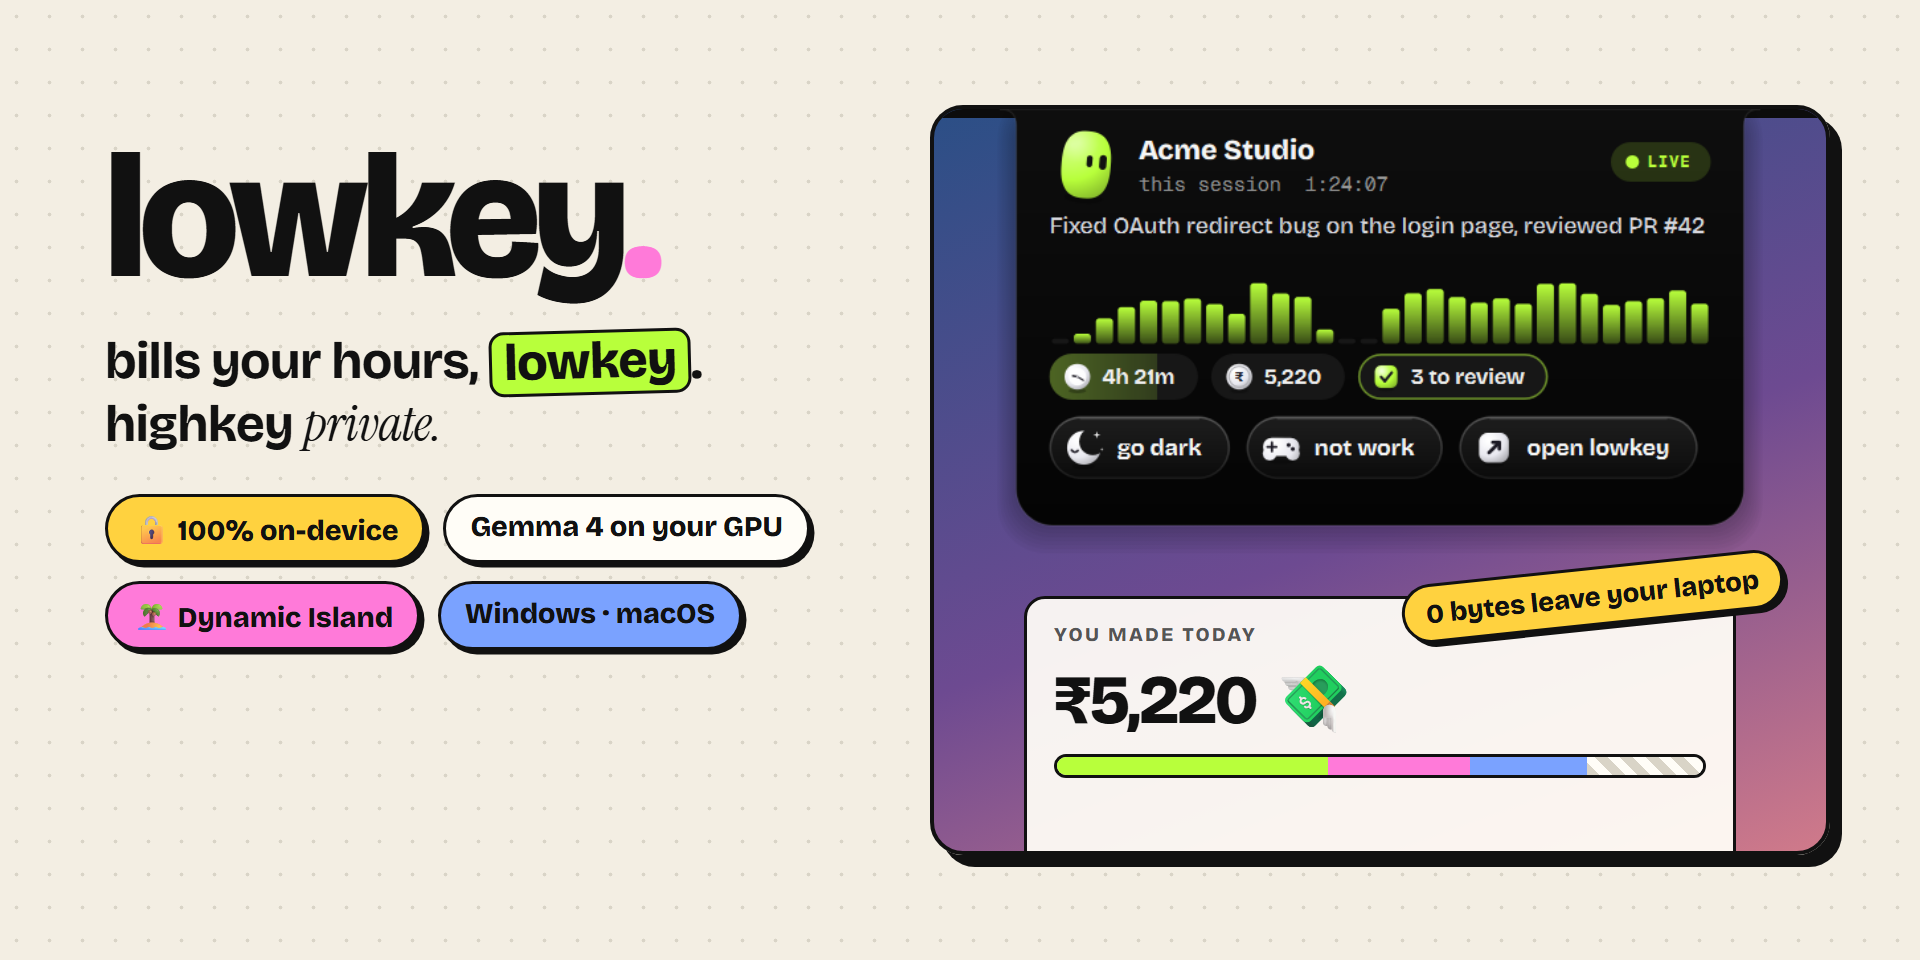
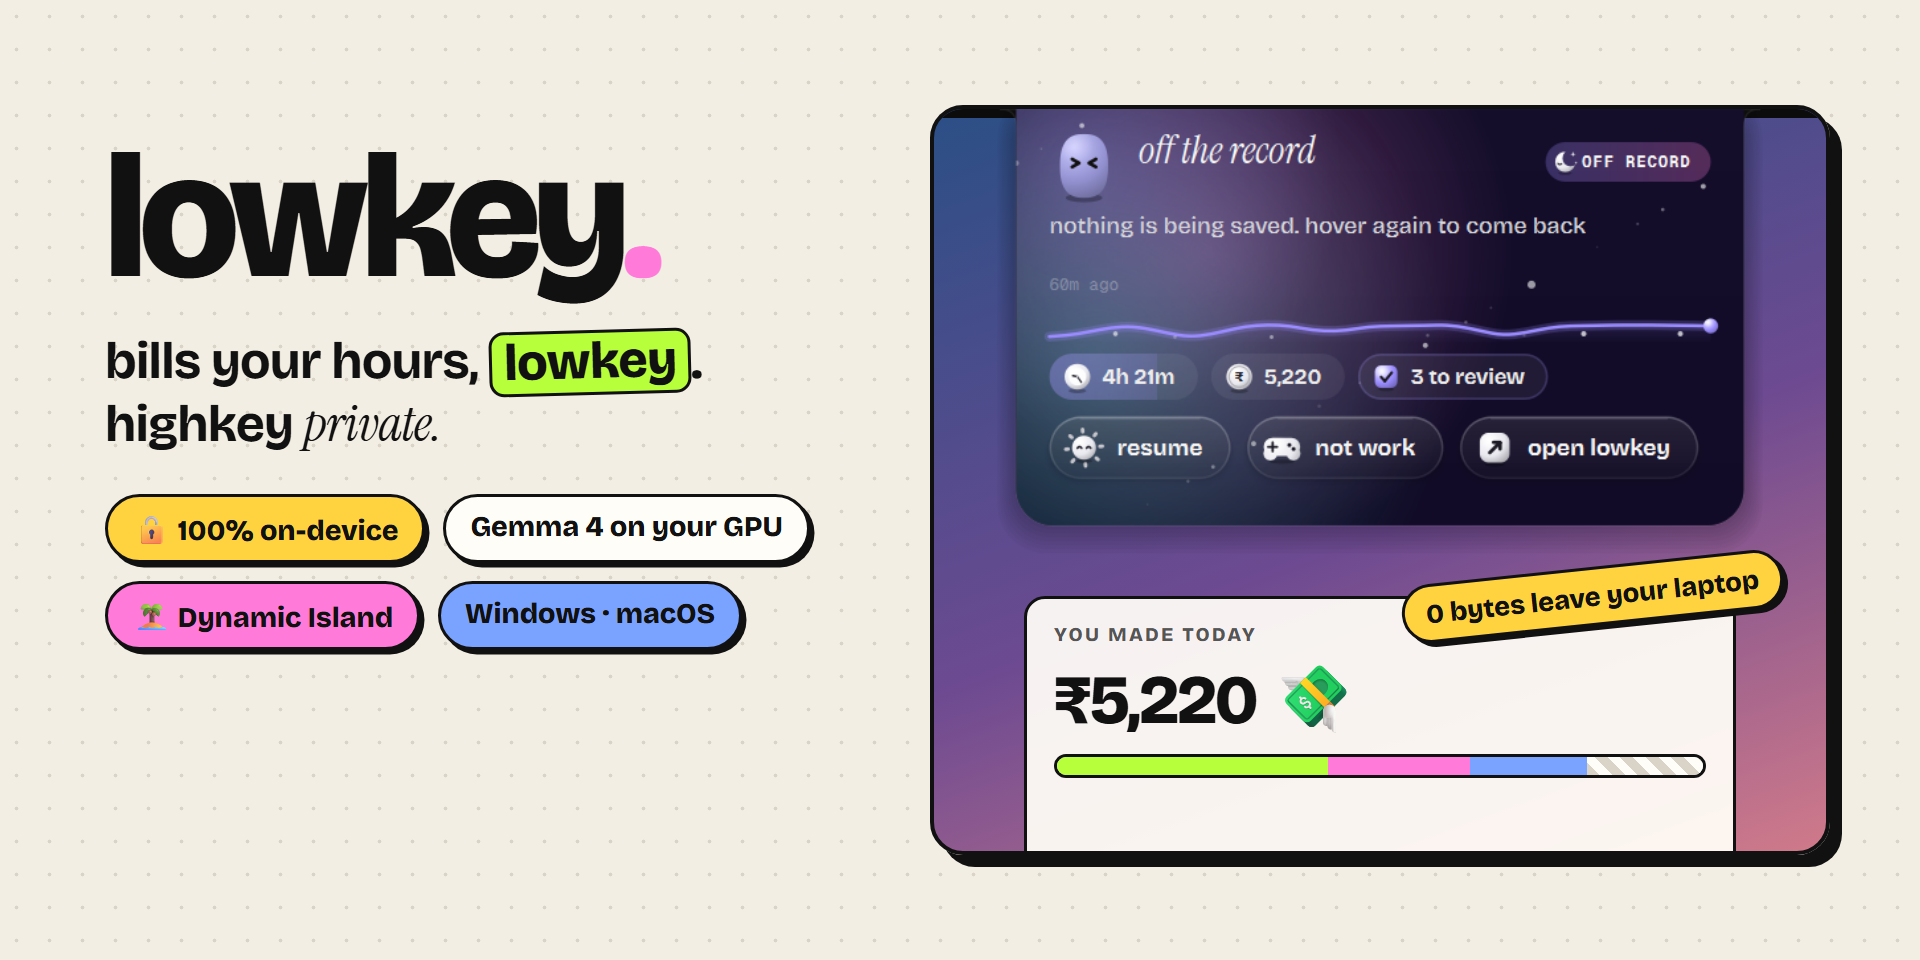
Replace the bar equaliser with a liquid flow wave of the last hour

Changed region(s): [[0.5312, 0.0938, 0.9062, 0.5625]]

diff --git a/lowkey/island.py b/lowkey/island.py
@@ -348,13 +348,15 @@ class Island(QWidget):
         p.setFont(font(14, QFont.Bold))
         name = QFontMetricsF(p.font()).elidedText(title, Qt.ElideRight, 140)
         p.drawText(QRectF(b.left() + 48, b.top(), 150, 42), Qt.AlignVCenter | Qt.AlignLeft, name)
-        if L.get("client") and not L.get("paused") and L.get("idle", 0) < 300:  # tiny "now playing" bars
+        if L.get("client") and not L.get("paused") and L.get("idle", 0) < 300:  # a tiny live squiggle
             ex = b.left() + 48 + QFontMetricsF(p.font()).horizontalAdvance(name) + 12
-            p.setPen(Qt.NoPen)
-            p.setBrush(col)
-            for i in range(4):
-                hh = 4 + 9 * (math.sin(now * (5 + i * 1.7) + i) + 1) / 2
-                p.drawRoundedRect(QRectF(ex + i * 5, cy - hh / 2, 3, hh), 1.5, 1.5)
+            sq = QPainterPath(QPointF(ex, cy))
+            for i in range(1, 21):
+                t = i / 20
+                sq.lineTo(ex + 22 * t, cy + 4.2 * math.sin(t * 2 * math.pi * 1.5 - now * 6) * math.sin(t * math.pi))
+            p.setPen(QPen(col, 2, Qt.SolidLine, Qt.RoundCap, Qt.RoundJoin))
+            p.setBrush(Qt.NoBrush)
+            p.drawPath(sq)
         if L.get("client") and not L.get("paused"):
             p.setFont(font(13.5, QFont.Bold, NUM))
             p.setPen(col)
@@ -465,9 +467,11 @@ class Island(QWidget):
                    Qt.TextWordWrap | Qt.AlignLeft | Qt.AlignTop, text)
         p.setOpacity(base)
 
-        # activity equaliser: last 30 minutes, one bar per minute
+        # flow wave: your last hour as liquid; it ripples while you work and goes still, moonlit, when you're dark
         y = y0 + self.row(p, 2)
-        self.bars(p, QRectF(x, y + 108, b.width() - 40, 34), col, now)
+        wave = QRectF(x, y + 104, b.width() - 40, 38)
+        self.buttons["flow"] = wave
+        self.flow_wave(p, wave, col, now)
 
         # stat chips: icon + value; lift on hover, "today" fills towards your goal, "to review" pulses
         y = y0 + self.row(p, 3)
@@ -597,28 +601,73 @@ class Island(QWidget):
                 p.drawText(lab, Qt.AlignVCenter | Qt.AlignLeft, "not work" if key == "personal" else "open lowkey")
             bx += w + 10
 
-    def bars(self, p, rect, col, now):
+    def flow_stats(self, now):
+        """Active minutes in the last hour, and how long the current streak has run."""
         mins, m0 = self.live.get("minutes", {}), int(now // 60)
-        vals = [min(1.0, mins.get(m0 - 29 + i, 0) / 60) for i in range(30)]
-        bw = rect.width() / 30
+        vals = [min(1.0, mins.get(m0 - 59 + i, 0) / 60) for i in range(60)]
+        streak = 0
+        for v in reversed(vals):
+            if v < 0.4:
+                break
+            streak += 1
+        return vals, sum(v >= 0.4 for v in vals), streak
+
+    def flow_wave(self, p, rect, col, now):
+        vals, active_min, streak = self.flow_stats(now)
+        smooth = [sum(vals[max(0, i - 2):i + 3]) / len(vals[max(0, i - 2):i + 3]) for i in range(60)]
         paused = self.live.get("paused")
-        active = not paused and self.live.get("idle", 0) < 300
+        live = not paused and self.live.get("idle", 0) < 300
+        accent = NIGHT if paused else col
+        top, bottom = rect.top() + 6, rect.bottom() - 4
+        amp = 0.0 if not live else 1.0
+        pts = []
+        for i, v in enumerate(smooth):
+            x = rect.left() + rect.width() * i / 59
+            level = v * (0.25 if paused else 1.0)                       # moonlit water lies low and calm
+            ripple = (1.6 * amp + (0.6 if paused else 0)) * math.sin(now * (2.2 if live else 0.8) + i * 0.38)
+            pts.append(QPointF(x, bottom - (bottom - top) * level + ripple * (0.4 + level)))
+        line = QPainterPath(pts[0])
+        for a, b2 in zip(pts, pts[1:]):                                  # midpoint smoothing: a liquid curve
+            mid = QPointF((a.x() + b2.x()) / 2, (a.y() + b2.y()) / 2)
+            line.quadTo(a, mid)
+        line.lineTo(pts[-1])
+        area = QPainterPath(line)
+        area.lineTo(rect.right(), rect.bottom())
+        area.lineTo(rect.left(), rect.bottom())
+        area.closeSubpath()
+        fill = QLinearGradient(0, top, 0, rect.bottom())
+        fill.setColorAt(0, QColor(accent.red(), accent.green(), accent.blue(), 95))
+        fill.setColorAt(1, QColor(accent.red(), accent.green(), accent.blue(), 0))
         p.setPen(Qt.NoPen)
-        for i, v in enumerate(vals):
-            if paused:  # moonlit: low, still, breathing together
-                hh = max(3.0, rect.height() * v * 0.42 * (0.82 + 0.18 * math.sin(now * 1.1 + i * 0.22)))
-                col = DUSK if i % 7 == 3 else NIGHT
-            else:
-                wiggle = 1 + (0.18 * math.sin(now * 6 + i * 0.9) if active and v > 0 else 0)
-                hh = max(3.0, rect.height() * v * 0.92 * wiggle)
-            g = QLinearGradient(0, rect.bottom() - hh, 0, rect.bottom())
-            top = QColor(col)
-            bottom = QColor(col)
-            bottom.setAlpha(70)
-            g.setColorAt(0, top)
-            g.setColorAt(1, bottom)
-            p.setBrush(g if v > 0 else QBrush(FAINT))
-            p.drawRoundedRect(QRectF(rect.left() + i * bw + 1.5, rect.bottom() - hh, bw - 3, hh), 2, 2)
+        p.setBrush(fill)
+        p.drawPath(area)
+        p.setBrush(Qt.NoBrush)
+        p.setPen(QPen(QColor(accent.red(), accent.green(), accent.blue(), 55), 6, Qt.SolidLine, Qt.RoundCap))
+        p.drawPath(line)                                                  # soft glow under the line
+        p.setPen(QPen(accent, 2, Qt.SolidLine, Qt.RoundCap))
+        p.drawPath(line)
+        if paused:  # starlight glinting on still water
+            p.setPen(Qt.NoPen)
+            for i in range(7):
+                tw = (math.sin(now * 2 + i * 1.9) + 1) / 2
+                gx = rect.left() + rect.width() * ((i * 0.618 + 0.1) % 1)
+                p.setBrush(QColor(255, 255, 255, int(40 + 150 * tw)))
+                p.drawEllipse(QPointF(gx, bottom - 2 + (i % 3)), 0.8 + 0.8 * tw, 0.8 + 0.8 * tw)
+        # the "now" dot: pulses only while you're active
+        nowp = pts[-1]
+        if live:
+            age = (now % 2.0) / 2.0
+            ring = QColor(accent.red(), accent.green(), accent.blue(), int(130 * (1 - age)))
+            p.setPen(QPen(ring, 1.5))
+            p.setBrush(Qt.NoBrush)
+            p.drawEllipse(nowp, 4 + 9 * age, 4 + 9 * age)
+        dot = QPainterPath()
+        dot.addEllipse(nowp, 4.5, 4.5)
+        jelly.jelly(p, dot, accent if live or paused else QColor("#8a8a94"), shadow=False)
+        f = font(9.5, QFont.Medium, NUM)
+        p.setFont(f)
+        p.setPen(QColor(255, 255, 255, 70))
+        p.drawText(QRectF(rect.left(), rect.top() - 4, 80, 12), Qt.AlignLeft | Qt.AlignVCenter, "60m ago")
 
     def hv(self, key):
         """0..1 hover amount for a control, eased by a spring (a touch of overshoot, then it holds)."""
@@ -634,6 +683,10 @@ class Island(QWidget):
         if key == "dark":
             return "resume tracking from right now" if L.get("paused") else "pause tracking. nothing is saved until you resume"
         pct = round(100 * L.get("today_s", 0) / self.goal) if self.goal else 0
+        if key == "flow":
+            _, active_min, streak = self.flow_stats(time.time())
+            tail = f", in flow for {streak}m" if streak >= 5 and not L.get("paused") else ""
+            return f"last hour: {active_min} of 60 minutes active{tail}"
         return {"personal": "not work? moves this session to side quests, off the invoice",
                 "open": "open the dashboard: review sessions, send the bill, see your week",
                 "today": f"billable time today, {pct}% of your {self.goal // 3600}h goal",

diff --git a/README.md b/README.md
@@ -79,10 +79,10 @@ A notch tucked into the edge of your screen, glowing in your current client's co
 
 <p align="center"><img src="docs/images/island-states.png" alt="The island tucked away, as a pill on hover, and fully open" width="100%"></p>
 
-- **Hover** and it springs out into a pill: your client's creature, a live "now playing" equaliser, the session timer and money earned today.
+- **Hover** and it springs out into a pill: your client's creature, a tiny live squiggle, the session timer and money earned today.
 - **Keep hovering, or click,** and it opens:
   - what the model thinks you're doing, typed in live
-  - a 30-minute activity equaliser
+  - a **flow wave** of your last hour: it ripples while you work, goes still and moonlit when you're off the record, and on hover tells you how many of the last 60 minutes were active and how long you've been in flow
   - today's totals
   - **go dark** (pause tracking: the island turns into a night sky, off the record) · **not work** (mark this session personal) · **open lowkey**
 - **Double-click** to pin it open. It never takes keyboard focus, so it can't interrupt your typing.

diff --git a/docs/hackathon-post.md b/docs/hackathon-post.md
@@ -24,8 +24,8 @@ So I built **lowkey**: it bills your hours, lowkey. It's a Dynamic Island for Wi
 
 **🏝 The island.** Like a MacBook notch, it hides in the top edge of the screen as a thin lip glowing in my current client's colour:
 
-- Hover, and it springs down into a pill: client avatar with a daily-goal ring, a little "now playing" equaliser, the session timer and ₹ earned.
-- Keep hovering, and it opens into a card showing what the AI thinks I'm doing (typed in live) and a 30-minute activity equaliser.
+- Hover, and it springs down into a pill: your client's creature, a tiny live squiggle, the session timer and ₹ earned.
+- Keep hovering, and it opens into a card showing what the AI thinks I'm doing (typed in live) and a flow wave of my last hour.
 - Double-click pins it open.
 - **go dark** pauses tracking (for when you're doing something nobody needs a log of).
 - **not work** marks the current session personal.

diff --git a/docs/how-it-works.md b/docs/how-it-works.md
@@ -21,7 +21,7 @@ Every 5 seconds it asks the OS for the foreground app, its window title, how lon
 - you hit **go dark**
 - the app or title matches `never_track`
 
-Everything else is appended as one JSON line to `data/activity-YYYY-MM-DD.jsonl`. The tracker also counts active seconds per minute; those counts feed the island's equaliser.
+Everything else is appended as one JSON line to `data/activity-YYYY-MM-DD.jsonl`. The tracker also counts active seconds per minute; those counts feed the island's flow wave.
 
 ## 2. Labeler: `lowkey/labeler.py`
 
